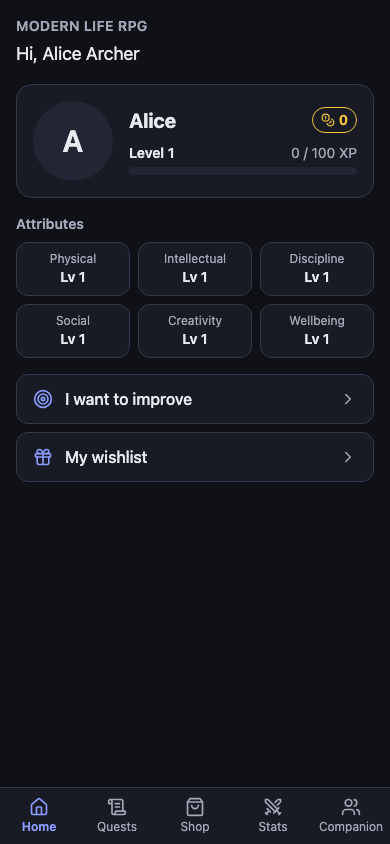
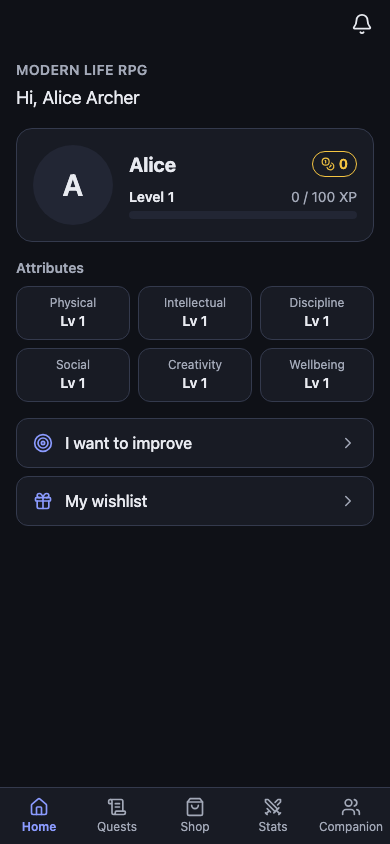
chore(S14): mark stage passing, refresh screenshots, log S15 dispatch

diff --git a/docs/LEAD-LOG.md b/docs/LEAD-LOG.md
@@ -115,3 +115,5 @@ verbs: DISPATCH, REVIEW, MERGED, PARTIAL, FALLBACK, BLOCKED -->
 2026-11-22T09:21 REVIEW S14 -> stage-reviewer (round 1, @22bac63)
 2026-11-22T09:26 REVIEW S14 stage-reviewer: APPROVE (round 1; 4 TODOs incl. webhook secret in access log, can_message default)
 2026-11-22T09:27 PENDING-MARK S14 (merged @88dd1de; main api predates S14 routes; awaiting user restart)
+2026-11-22T10:08 MERGED S14 (check-stage --mark passed on main after user restart; S01/S03-S13 recheck passed; screenshots refreshed for header bell; 1 review round)
+2026-11-22T10:08 DISPATCH S15 -> stage-worker(opus) (high, normal, ui, insights + P1)
